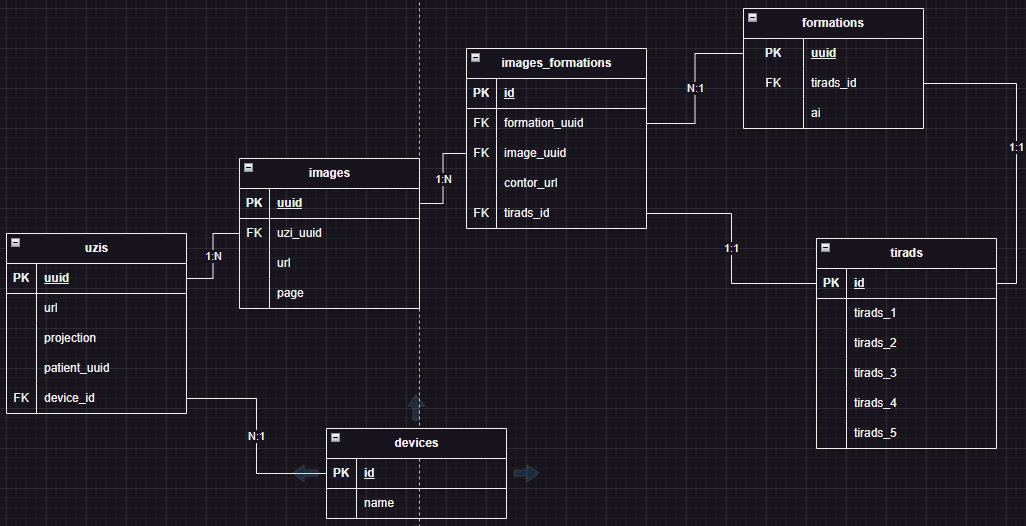
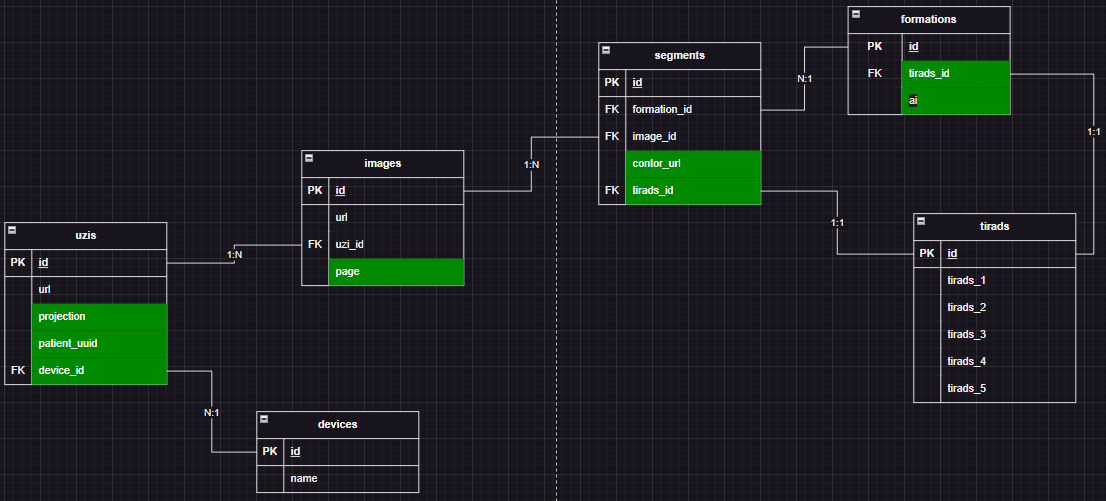
png

diff --git a/uzi/internal/db/uzirepo/uzi.go b/uzi/internal/db/uzirepo/uzi.go
@@ -2,7 +2,6 @@ package uzirepo
 
 import (
 	"context"
-	"errors"
 	"fmt"
 	"yir/pkg/db"
 	"yir/pkg/mappers"
@@ -107,6 +106,15 @@ func (r *UziRepo) GetUziImages(ctx context.Context, uziID uuid.UUID) ([]entity.I
 	return resp, nil
 }
 
+func (r *UziRepo) GetImageByID(ctx context.Context, id uuid.UUID) (*entity.Image, error) {
+	resp, err := db.GetSingleMappedRecord[entity.Image, models.Image](ctx, r.db, db.WithWhere("id = ?", id))
+	if err != nil {
+		return nil, err
+	}
+
+	return resp, nil
+}
+
 func (r *UziRepo) InsertFormations(ctx context.Context, formations []entity.Formation) error {
 	return db.CreateRecord[models.Formation](ctx, r.db, formations)
 }
@@ -128,6 +136,22 @@ func (r *UziRepo) GetUziFormations(ctx context.Context, uziID uuid.UUID) ([]enti
 	return mappers.MustTransformSlice[models.Formation, entity.Formation](resp), nil
 }
 
+func (r *UziRepo) GetImageFormations(ctx context.Context, imageID uuid.UUID) ([]entity.Formation, error) {
+	query := r.db.WithContext(ctx).
+		Model(&models.Image{}).
+		Distinct("formations.id").
+		Joins("inner join segments on images.id = segments.image_id").
+		Joins("inner join formations on segments.formation_id = formations.id").
+		Where("images.id = ?", imageID)
+
+	resp := []models.Formation{}
+	if err := query.Find(&resp).Error; err != nil {
+		return nil, fmt.Errorf("get image formations: %w", err)
+	}
+
+	return mappers.MustTransformSlice[models.Formation, entity.Formation](resp), nil
+}
+
 func (r *UziRepo) GetFormationByID(ctx context.Context, id uuid.UUID) (*entity.Formation, error) {
 	resp, err := db.GetSingleMappedRecord[entity.Formation, models.Formation](ctx, r.db, db.WithWhere("id = ?", id))
 	if err != nil {
@@ -135,6 +159,18 @@ func (r *UziRepo) GetFormationByID(ctx context.Context, id uuid.UUID) (*entity.F
 	}
 
 	return resp, nil
+}
+
+func (r *UziRepo) UpdateFormation(ctx context.Context, id uuid.UUID, formation *entity.Formation) error {
+	formationDB := mappers.MustTransformObj[entity.Formation, models.Formation](formation)
+
+	err := r.db.WithContext(ctx).
+		Model(&models.Formation{}).
+		Where("id = ?", id).
+		Updates(formationDB).
+		Error
+
+	return err
 }
 
 func (r *UziRepo) InsertSegments(ctx context.Context, segments []entity.Segment) error {
@@ -157,55 +193,20 @@ func (r *UziRepo) GetUziSegments(ctx context.Context, uziID uuid.UUID) ([]entity
 	return mappers.MustTransformSlice[models.Segment, entity.Segment](resp), nil
 }
 
-func (r *UziRepo) GetFormationSegments(ctx context.Context, formationID uuid.UUID) ([]entity.Segment, error) {
-	query := r.db.WithContext(ctx).
-		Model(&models.Segment{}).
-		Distinct("segments.id").
-		Joins("inner join formations on segments.formation_id = formations.id").
-		Where("formations.id = ?", formationID)
-
-	resp := []models.Segment{}
-	if err := query.Find(&resp).Error; err != nil {
-		return nil, fmt.Errorf("get uzi segments: %w", err)
-	}
-
-	return mappers.MustTransformSlice[models.Segment, entity.Segment](resp), nil
-}
-
-func (r *UziRepo) GetImage(ctx context.Context, id uuid.UUID) (*entity.Image, error) {
-	var resp models.Image
-
-	query := r.db.WithContext(ctx).
-		Model(&models.Image{}).
-		Where("id = ?", id)
-
-	if err := query.Take(&resp).Error; err != nil {
-		if errors.Is(query.Error, gorm.ErrRecordNotFound) {
-			return nil, entity.ErrNotFound
-		}
+func (r *UziRepo) GetImageSegments(ctx context.Context, imageID uuid.UUID) ([]entity.Segment, error) {
+	resp, err := db.GetMultiMappedRecord[entity.Segment, models.Segment](ctx, r.db, db.WithWhere("image_id = ?", imageID))
+	if err != nil {
 		return nil, err
 	}
 
-	return mapper.MustTransformObj[models.Image, entity.Image](&resp), nil
+	return resp, nil
 }
 
-func (r *UziRepo) CheckImagesIDsExist(ctx context.Context, ids uuid.UUIDs) error {
-	var imagesIDs uuid.UUIDs
-	if err := r.db.WithContext(ctx).Model(&models.Image{}).Pluck("id", &imagesIDs).Error; err != nil {
-		return fmt.Errorf("get images ids: %w", err)
+func (r *UziRepo) GetFormationSegments(ctx context.Context, formationID uuid.UUID) ([]entity.Segment, error) {
+	resp, err := db.GetMultiMappedRecord[entity.Segment, models.Segment](ctx, r.db, db.WithWhere("formation_id = ?", formationID))
+	if err != nil {
+		return nil, err
 	}
 
-	var notFoundIds uuid.UUIDs
-	imagesIDsMap := mapper.SliceToMap(imagesIDs)
-	for _, id := range ids {
-		if _, ok := imagesIDsMap[id]; !ok {
-			notFoundIds = append(notFoundIds, id)
-		}
-	}
-
-	if notFoundIds != nil {
-		return &entity.ImagesNotFoundError{Ids: notFoundIds}
-	}
-
-	return nil
+	return resp, nil
 }

diff --git a/uzi/internal/usecases/uzi/images.go b/uzi/internal/usecases/uzi/images.go
@@ -1,0 +1,52 @@
+package uzi
+
+import (
+	"context"
+	"fmt"
+	"yir/uzi/internal/entity/dto"
+
+	"github.com/google/uuid"
+	"go.uber.org/zap"
+)
+
+func (u *UziUseCase) GetImageWithSegmentsFormations(ctx context.Context, id uuid.UUID) (*dto.ImageWithSegmentsFormations, error) {
+	u.logger.Debug("[Request] Get image by ID", zap.Any("id", id))
+	image, err := u.uziRepo.GetImageByID(ctx, id)
+	if err != nil {
+		u.logger.Error("Get image by ID", zap.Error(err))
+		return nil, fmt.Errorf("get image by ID: %w", err)
+	}
+	u.logger.Debug("[Response] Got image by ID", zap.Any("image", image))
+
+	u.logger.Debug("[Request] Get image formations", zap.Any("id", id))
+	formations, err := u.uziRepo.GetImageFormations(ctx, id)
+	if err != nil {
+		u.logger.Error("Get image formations", zap.Error(err))
+		return nil, fmt.Errorf("get image formations: %w", err)
+	}
+	u.logger.Debug("[Response] Got image formations", zap.Any("formations", formations))
+
+	u.logger.Debug("[Request] Get image segments", zap.Any("id", id))
+	segments, err := u.uziRepo.GetImageSegments(ctx, id)
+	if err != nil {
+		u.logger.Error("Get image segments", zap.Error(err))
+		return nil, fmt.Errorf("get image segments: %w", err)
+	}
+	u.logger.Debug("[Response] Got image segments", zap.Any("segments", segments))
+
+	dtoFormations, err := u.GetDTOFormation(ctx, formations)
+	if err != nil {
+		return nil, fmt.Errorf("get dto formations: %w", err)
+	}
+
+	dtoSegments, err := u.GetDTOSegments(ctx, segments)
+	if err != nil {
+		return nil, fmt.Errorf("get dto segments: %w", err)
+	}
+
+	return &dto.ImageWithSegmentsFormations{
+		Image:      image,
+		Formations: dtoFormations,
+		Segments:   dtoSegments,
+	}, nil
+}

diff --git a/uzi/internal/usecases/uzi/formation.go b/uzi/internal/usecases/uzi/formation.go
@@ -52,29 +52,35 @@ func (u *UziUseCase) GetFormationWithSegments(ctx context.Context, id uuid.UUID)
 
 	return &dto.FormationWithSegments{
 		Formation: &dtoFormation[0],
-		Segments: dtoSegments,
+		Segments:  dtoSegments,
 	}, nil
 }
 
 func (u *UziUseCase) UpdateFormation(ctx context.Context, id uuid.UUID, req *dto.Formation) error {
 	formation, err := mappers.TransformObj[dto.Formation, entity.Formation](req, func(src *dto.Formation, dst *entity.Formation) error {
 		if src.Tirads != nil {
+			u.logger.Debug("[Request] Create tirads")
 			tiradsID, err := u.uziRepo.CreateTirads(ctx, src.Tirads)
 			if err != nil {
+				u.logger.Error("Create tirads", zap.Error(err))
 				return fmt.Errorf("create tirads: %w", err)
 			}
+			u.logger.Debug("[Response] Created tirads", zap.Int("id", tiradsID))
 
 			dst.TiradsID = tiradsID
 		}
-		
+
 		return nil
 	})
 	if err != nil {
 		return fmt.Errorf("get entity formation: %w", err)
 	}
-	
+
 	u.logger.Debug("[Request] Update Formation", zap.Any("id", id), zap.Any("data", req))
-	
+	if err := u.uziRepo.UpdateFormation(ctx, id, formation); err != nil {
+		u.logger.Error("Update Formation", zap.Error(err))
+		return fmt.Errorf("update formation: %w", err)
+	}
 	u.logger.Debug("[Response] Updated Formation")
 
 	return nil

diff --git a/uzi/internal/usecases/repositories/db.go b/uzi/internal/usecases/repositories/db.go
@@ -20,12 +20,16 @@ type UziRepo interface {
 
 	InsertImages(ctx context.Context, images []entity.Image) error
 	GetUziImages(ctx context.Context, uziID uuid.UUID) ([]entity.Image, error)
+	GetImageFormations(ctx context.Context, imageID uuid.UUID) ([]entity.Formation, error)
+	GetImageByID(ctx context.Context, id uuid.UUID) (*entity.Image, error)
 
 	InsertFormations(ctx context.Context, formations []entity.Formation) error
 	GetUziFormations(ctx context.Context, uziID uuid.UUID) ([]entity.Formation, error)
 	GetFormationByID(ctx context.Context, id uuid.UUID) (*entity.Formation, error)
+	UpdateFormation(ctx context.Context, id uuid.UUID, formation *entity.Formation) error
 
 	InsertSegments(ctx context.Context, segments []entity.Segment) error
 	GetUziSegments(ctx context.Context, uziID uuid.UUID) ([]entity.Segment, error)
+	GetImageSegments(ctx context.Context, imageID uuid.UUID) ([]entity.Segment, error)
 	GetFormationSegments(ctx context.Context, formationID uuid.UUID) ([]entity.Segment, error)
 }

diff --git a/uzi/internal/usecases/uzi/uzi.go b/uzi/internal/usecases/uzi/uzi.go
@@ -80,10 +80,10 @@ func (u *UziUseCase) GetUzi(ctx context.Context, id uuid.UUID) (*dto.Uzi, error)
 	}
 
 	return &dto.Uzi{
-		UziInfo: uzi,
-		Images: images,
+		UziInfo:    uzi,
+		Images:     images,
 		Formations: dtoFormations,
-		Segments: dtoSegments,
+		Segments:   dtoSegments,
 	}, nil
 }
 

diff --git a/uzi/internal/entity/dto/dto.go b/uzi/internal/entity/dto/dto.go
@@ -28,7 +28,13 @@ type Segment struct {
 
 type FormationWithSegments struct {
 	Formation *Formation
-	Segments []Segment
+	Segments  []Segment
+}
+
+type ImageWithSegmentsFormations struct {
+	Image      *entity.Image
+	Formations []Formation
+	Segments   []Segment
 }
 
 type Uzi struct {

diff --git a/uzi/README.md b/uzi/README.md
@@ -1,3 +1,5 @@
 ## 🛠🛠 DB 🛠🛠
 
 ![db_schema_uzi](../img/db_schema_uzi.png)
+
+![work process](../img/work_process.png)
